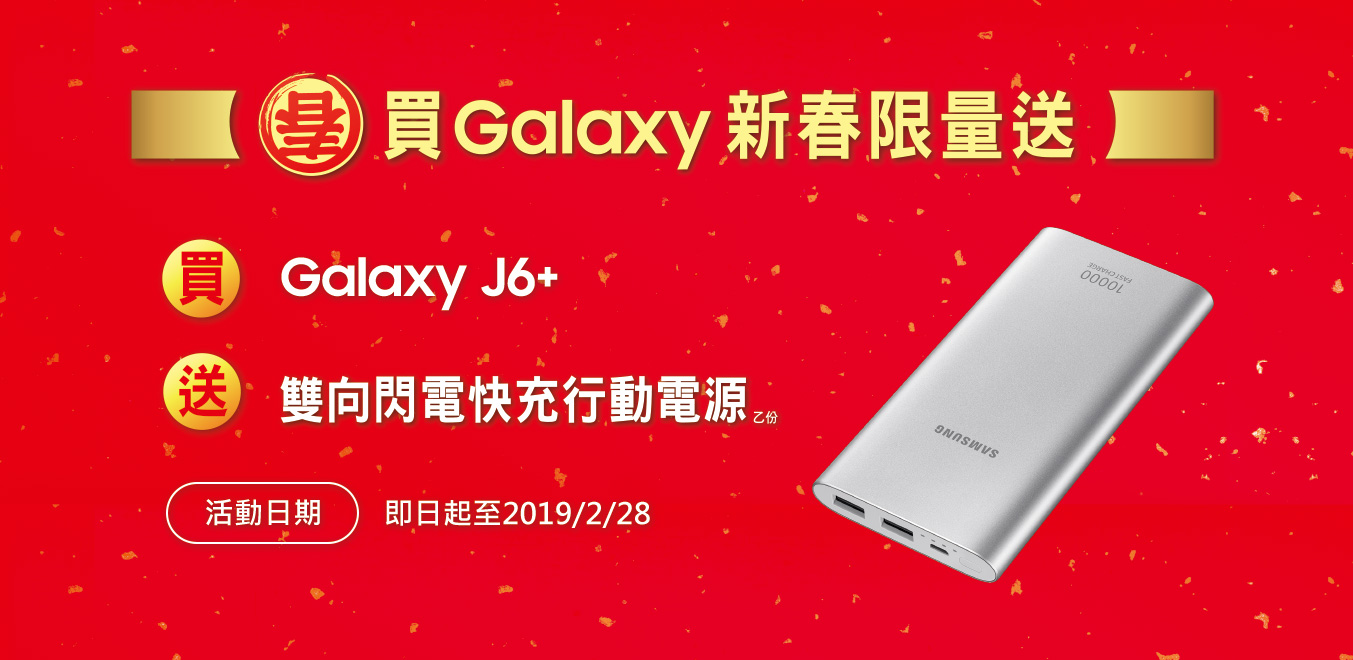
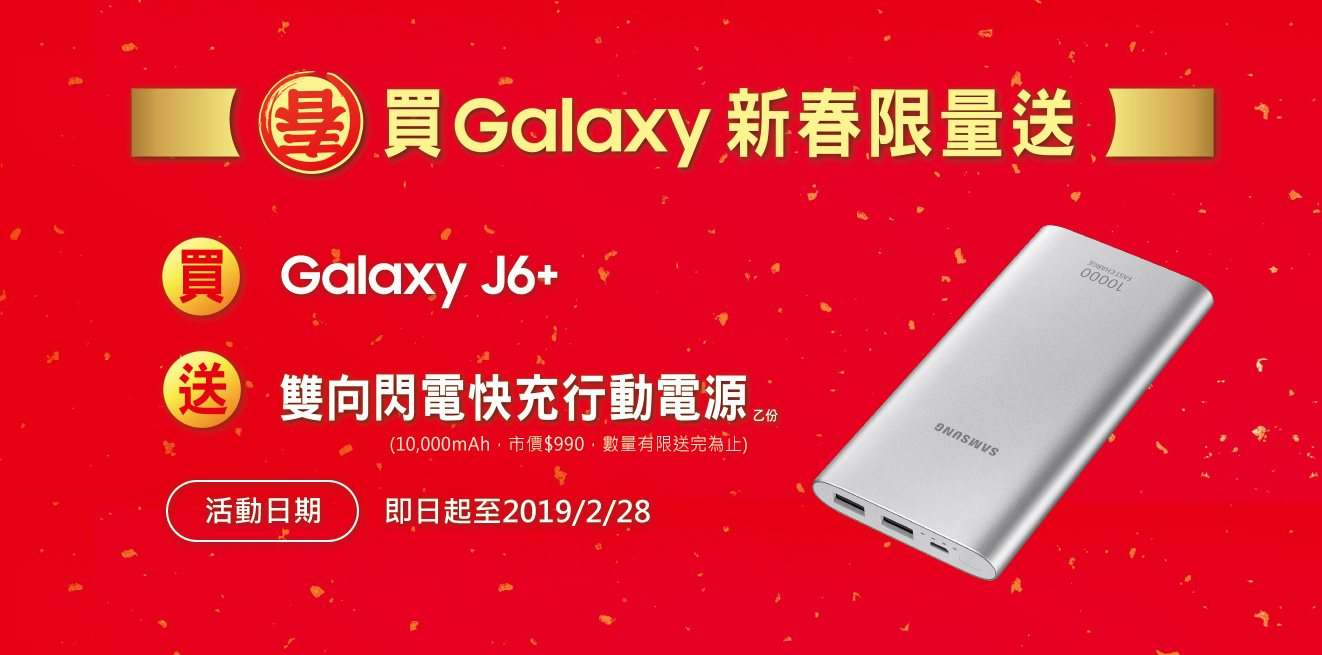
update

diff --git a/index.html b/index.html
@@ -125,13 +125,13 @@
                         <img src="./images/e_m.jpg" alt="" class='phoneShow'>
                     </div>
                     <div class="d-f jcb s_btns">
-                        <a target='_blank' href="https://www.samsung.com/tw/smartphones/galaxy-j6-j610/SM-J610GZRGBRI/" class="s_btn" data-omni-type="microsite" data-omni ="campaign:galaxy-j6-j610:learnmore">了解更多</a>
-                        <a target='_blank' href="https://shop.samsung.com/tw/mobile-j/" class="s_btn" data-omni-type="microsite" data-omni ="campaign:galaxy-j6-j610:buynow">立即入手</a>
+                        <a target='_blank' href="https://promotion.twsamsungcampaign.com/" class="s_btn" data-omni-type="microsite" data-omni ="campaign:galaxy-j6-j610:CNYCampaignlandingpage">活動詳情</a>
+                        <a target='_blank' href="https://shop.samsung.com/tw/mobile-j/" class="s_btn" data-omni-type="microsite" data-omni ="campaign:galaxy-j6-j610:J6+PDP">產品資訊</a>
                         <a target='_blank' href="https://members.samsung.com.tw/dealer_location/index.aspx" class="s_btn" data-omni-type="microsite" data-omni ="campaign:galaxy-j6-j610:store">銷售門市</a>
                     </div>
                 </div>
             </div>
-            <div class="s_block s_note">
+            <div class="s_block s_note" style="display: none;">
                 <div class="s_container">
                     <div class="s_title pinkTxt fwb">活動注意事項</div>
                     <ul class="">
